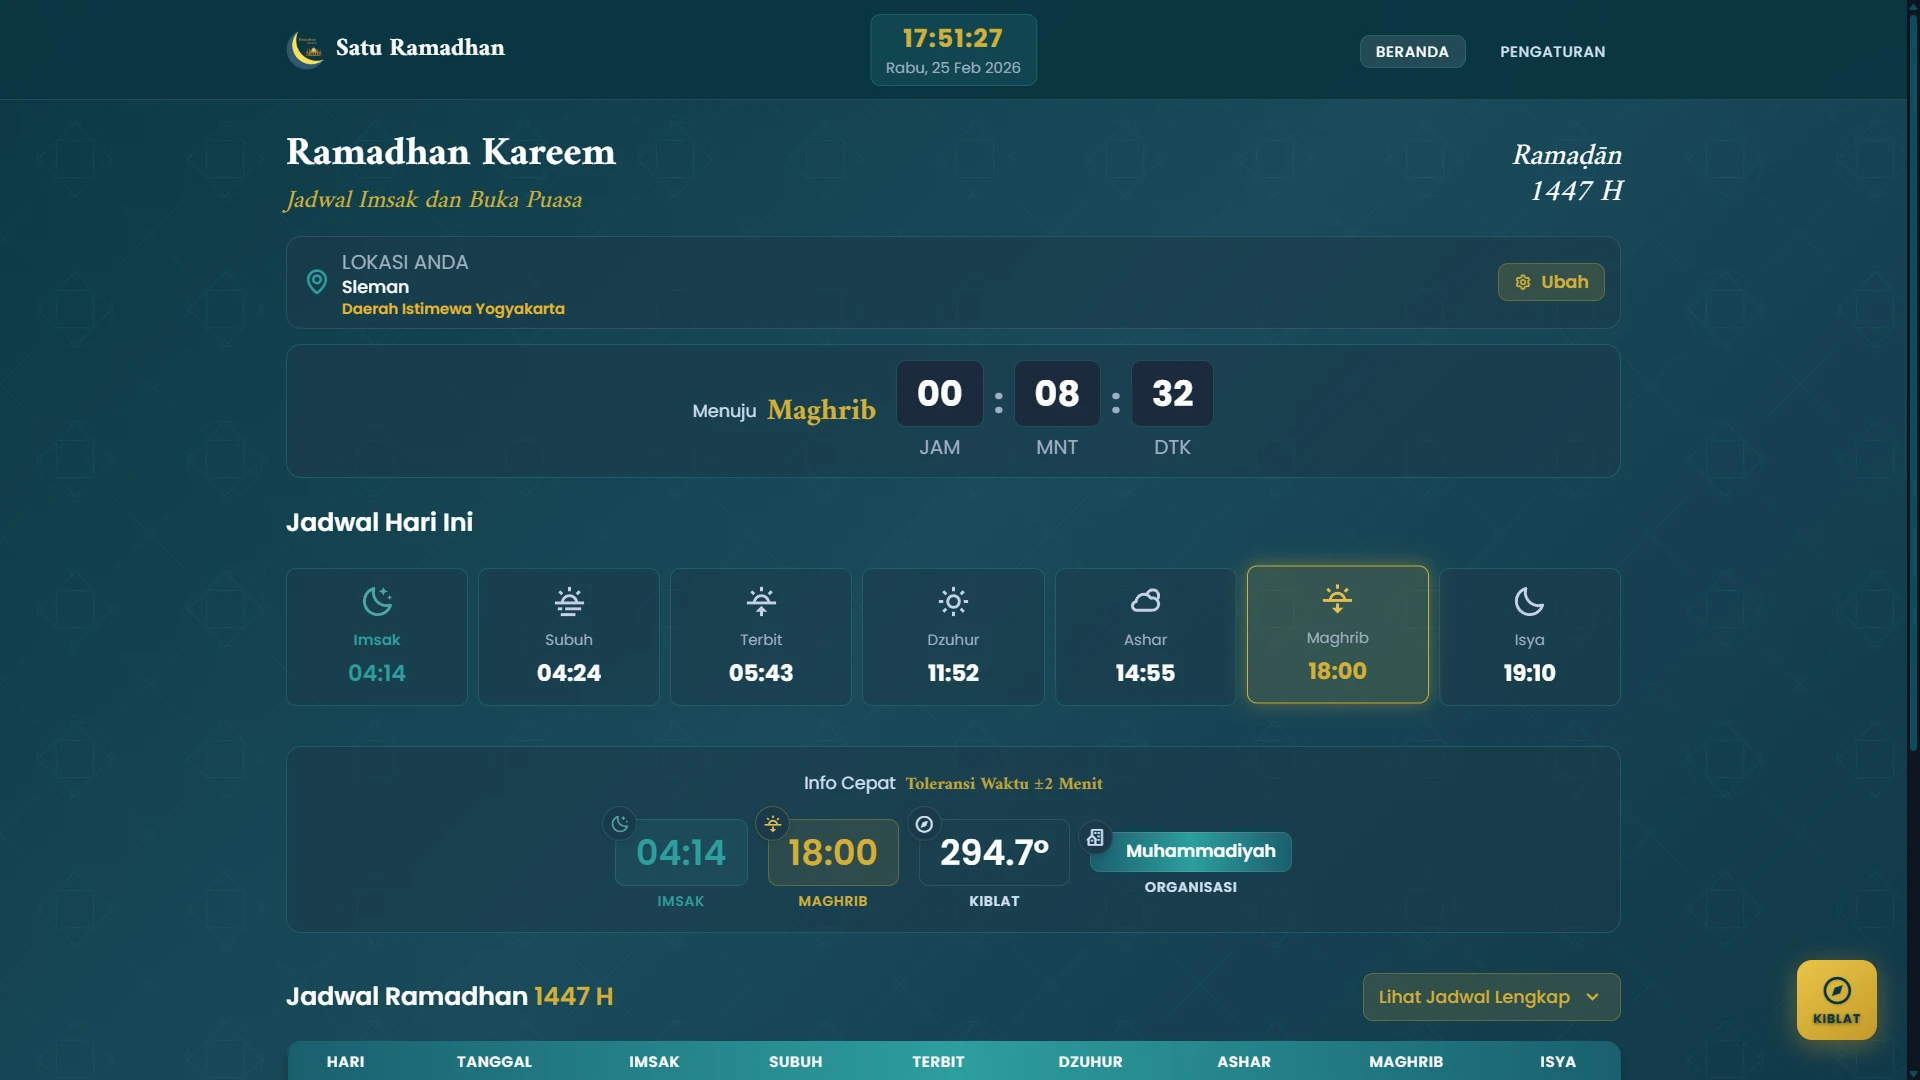
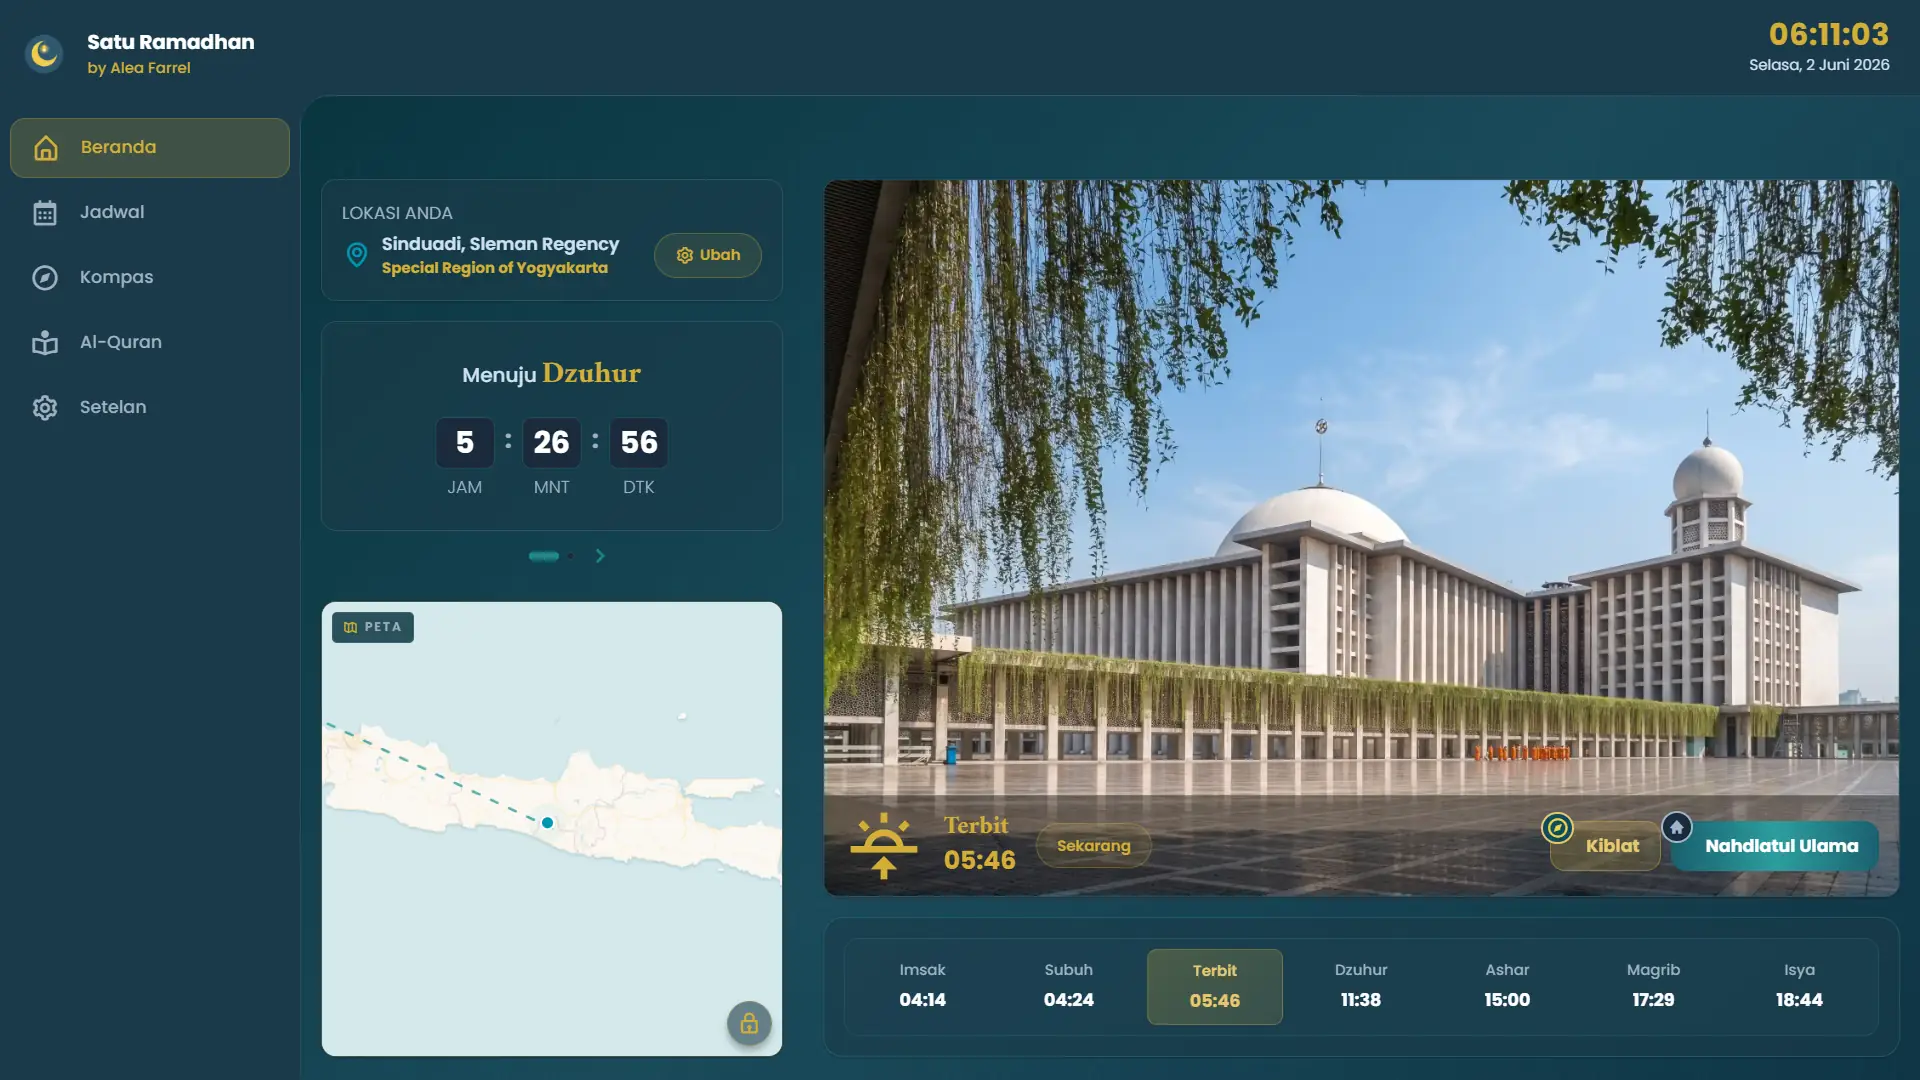
Update project in Portofolio.

diff --git a/assets/css/components/projects-overlay.css b/assets/css/components/projects-overlay.css
@@ -369,6 +369,38 @@ body:not(.touch-device) .projects-overlay-card:hover .projects-overlay-card-imag
     transform: translateX(2px);
 }
 
+.projects-overlay-card-actions {
+    display: flex;
+    flex-wrap: wrap;
+    align-items: center;
+    gap: var(--space-3);
+    margin-top: var(--space-3);
+}
+
+.projects-overlay-card-playstore {
+    display: inline-flex;
+    align-items: center;
+    gap: 0.35rem;
+    padding: 0.45rem 0.85rem;
+    font-size: 11px;
+    font-weight: 600;
+    border-radius: 999px;
+    color: var(--color-accent-primary);
+    background: rgba(0, 212, 255, 0.08);
+    border: 1px solid rgba(0, 212, 255, 0.2);
+    text-decoration: none;
+    transition: transform var(--transition-fast), background var(--transition-fast);
+}
+
+.projects-overlay-card-playstore i {
+    font-size: 14px;
+}
+
+.projects-overlay-card-playstore:hover {
+    transform: translateY(-1px);
+    background: rgba(0, 212, 255, 0.12);
+}
+
 /* Empty State */
 .projects-overlay-empty {
     grid-column: 1 / -1;

diff --git a/assets/css/components/timeline.css b/assets/css/components/timeline.css
@@ -316,6 +316,38 @@ body:not(.touch-device) .timeline-card:hover .timeline-card-title {
     transform: translateX(2px);
 }
 
+.timeline-card-actions {
+    display: flex;
+    flex-wrap: wrap;
+    align-items: center;
+    gap: var(--space-4);
+    margin-top: var(--space-3);
+}
+
+.timeline-card-playstore {
+    display: inline-flex;
+    align-items: center;
+    gap: 0.4rem;
+    padding: 0.45rem 0.85rem;
+    font-size: 11px;
+    font-weight: 600;
+    border-radius: 999px;
+    color: var(--color-accent-primary);
+    background: rgba(0, 212, 255, 0.08);
+    border: 1px solid rgba(0, 212, 255, 0.2);
+    text-decoration: none;
+    transition: transform var(--transition-fast), background var(--transition-fast);
+}
+
+.timeline-card-playstore i {
+    font-size: 14px;
+}
+
+.timeline-card-playstore:hover {
+    transform: translateY(-1px);
+    background: rgba(0, 212, 255, 0.12);
+}
+
 /* Responsive Timeline - Tablet */
 @media (max-width: 768px) {
     .timeline-list::before {

diff --git a/assets/js/modules/timeline.js b/assets/js/modules/timeline.js
@@ -49,9 +49,16 @@ export class Timeline {
                             <div class="timeline-card-tags">
                                 ${project.tags.map(tag => `<span class="timeline-card-tag">${tag}</span>`).join('')}
                             </div>
-                            <a href="${project.link}" class="timeline-card-link" target="_blank" rel="noopener noreferrer">
-                                View Project <i class="bx bx-right-arrow-alt"></i>
-                            </a>
+                            <div class="timeline-card-actions">
+                                <a href="${project.link}" class="timeline-card-link" target="_blank" rel="noopener noreferrer">
+                                    View Project <i class="bx bx-right-arrow-alt"></i>
+                                </a>
+                                ${project.playStoreUrl ? `
+                                <a href="${project.playStoreUrl}" class="timeline-card-playstore" target="_blank" rel="noopener noreferrer" title="Open in Play Store">
+                                    <i class="bx bxl-play-store"></i>
+                                </a>
+                                ` : ''}
+                            </div>
                         </div>
                     </div>
                 </div>
@@ -203,6 +210,9 @@ export class Timeline {
                             </button>
                             <button class="projects-overlay-filter" data-category="Web">
                                 <i class="bx bx-globe"></i> Web
+                            </button>
+                            <button class="projects-overlay-filter" data-category="Hybrid">
+                                <i class="bx bx-mobile"></i> Hybrid
                             </button>
                             <button class="projects-overlay-filter" data-category="CLI">
                                 <i class="bx bx-terminal"></i> CLI
@@ -357,9 +367,16 @@ export class Timeline {
                     <div class="projects-overlay-card-tags">
                         ${project.tags.map(tag => `<span class="projects-overlay-card-tag">${tag}</span>`).join('')}
                     </div>
-                    <a href="${project.link}" class="projects-overlay-card-link" target="_blank" rel="noopener noreferrer">
-                        View Project <i class="bx bx-right-arrow-alt"></i>
-                    </a>
+                    <div class="projects-overlay-card-actions">
+                        <a href="${project.link}" class="projects-overlay-card-link" target="_blank" rel="noopener noreferrer">
+                            View Project <i class="bx bx-right-arrow-alt"></i>
+                        </a>
+                        ${project.playStoreUrl ? `
+                        <a href="${project.playStoreUrl}" class="projects-overlay-card-playstore" target="_blank" rel="noopener noreferrer" title="Open in Play Store">
+                            <i class="bx bxl-play-store"></i> Play Store
+                        </a>
+                        ` : ''}
+                    </div>
                 </div>
             </div>
         `).join('');